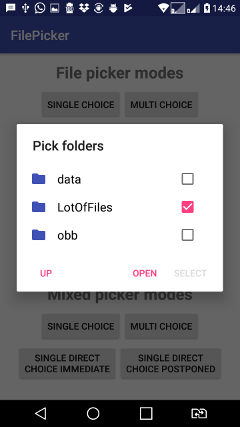
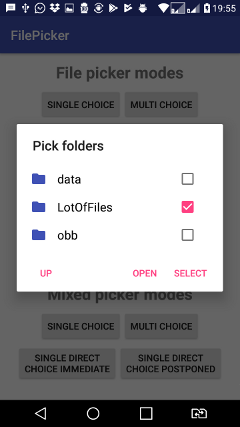
v.1.0.09

diff --git a/filepicker/src/main/java/com/github/isabsent/filepicker/SimpleFilePickerDialog.java b/filepicker/src/main/java/com/github/isabsent/filepicker/SimpleFilePickerDialog.java
@@ -7,7 +7,6 @@ import android.os.Bundle;
 import android.os.Environment;
 import android.support.annotation.LayoutRes;
 import android.support.annotation.NonNull;
-import android.support.annotation.Nullable;
 import android.support.v4.util.Pair;
 import android.support.v7.app.AlertDialog;
 import android.text.Spannable;
@@ -22,6 +21,9 @@ import com.github.isabsent.filepicker.entity.Item;
 import com.github.isabsent.filepicker.entity.ItemViewHolder;
 import com.github.isabsent.filepicker.entity.SimpleFilePickerItem;
 
+import org.apache.commons.io.FileUtils;
+import org.apache.commons.io.FilenameUtils;
+
 import java.io.File;
 import java.io.FileFilter;
 import java.util.ArrayList;
@@ -35,11 +37,13 @@ import eltos.simpledialogfragment.list.AdvancedAdapter;
 import eltos.simpledialogfragment.list.CustomListDialog;
 import eltos.simpledialogfragment.list.SimpleListDialog;
 
+import static com.github.isabsent.filepicker.SimpleFilePickerDialog.CompositeMode.FILE_OR_FOLDER_DIRECT_CHOICE_POSTPONED;
 import static com.github.isabsent.filepicker.SimpleFilePickerDialog.ItemMode.ITEM_FILE_FOLDER;
 import static com.github.isabsent.filepicker.SimpleFilePickerDialog.ItemMode.ITEM_FILE_ONLY;
 import static com.github.isabsent.filepicker.SimpleFilePickerDialog.ItemMode.ITEM_FOLDER_ONLY;
 import static eltos.simpledialogfragment.SimpleDialog.OnDialogResultListener.BUTTON_NEGATIVE;
 import static eltos.simpledialogfragment.SimpleDialog.OnDialogResultListener.BUTTON_NEUTRAL;
+import static eltos.simpledialogfragment.SimpleDialog.OnDialogResultListener.BUTTON_POSITIVE;
 
 public class SimpleFilePickerDialog extends CustomListDialog<SimpleFilePickerDialog> {
     private static final String
@@ -74,8 +78,17 @@ public class SimpleFilePickerDialog extends CustomListDialog<SimpleFilePickerDia
     private InteractionListenerString mListenerString;
     private InteractionListenerInt mListenerInt;
 
-    public static SimpleFilePickerDialog build(){
-        return new SimpleFilePickerDialog();
+    public static SimpleFilePickerDialog build(String folderPath, CompositeMode mode){
+        if (folderPath == null)
+            folderPath = Environment.getExternalStorageDirectory().getAbsolutePath();
+        if (mode == null)
+            mode = FILE_OR_FOLDER_DIRECT_CHOICE_POSTPONED;
+
+        return new SimpleFilePickerDialog().path(folderPath, mode)
+                .choiceMin(1)
+                .neut(R.string.button_up)
+                .neg(R.string.button_open)
+                .pos(R.string.button_select);
     }
 
     /**
@@ -156,12 +169,14 @@ public class SimpleFilePickerDialog extends CustomListDialog<SimpleFilePickerDia
                 upButton.setEnabled(false);
 
             openButton = alertDialog.getButton(Dialog.BUTTON_NEGATIVE);//Open
-            if (choiceMode == SimpleListDialog.SINGLE_CHOICE_DIRECT)
+//            if (choiceMode == SimpleListDialog.SINGLE_CHOICE_DIRECT)
                 openButton.setEnabled(false);
 
             selectButton = alertDialog.getButton(Dialog.BUTTON_POSITIVE);//Select
             if (ITEM_FILE_ONLY.equals(mode.getItemMode()))
                 selectButton.setEnabled(false);
+//            else
+//                selectButton.setEnabled(true);
         }
     }
 
@@ -189,6 +204,17 @@ public class SimpleFilePickerDialog extends CustomListDialog<SimpleFilePickerDia
                         showListItemDialog(selectedPath);
                         return result;
                     }
+                    break;
+                case BUTTON_POSITIVE: //Select
+                    if (isSelectionEmpty(result)) {//Choosing a parent folder
+                        String[] paths = getArguments().getStringArray(PATH_ARRAY);
+                        if (paths != null) {
+                            result.putString(SELECTED_SINGLE_LABEL, FilenameUtils.getName(folderPath));
+                            result.putString(SELECTED_SINGLE_PATH, folderPath);
+                        }
+                        return result;
+                    }
+                    break;
             }
 
             ArrayList<Integer> positions = result.getIntegerArrayList(SELECTED_POSITIONS);
@@ -198,7 +224,7 @@ public class SimpleFilePickerDialog extends CustomListDialog<SimpleFilePickerDia
                 return result;
             }
 
-            if (positions != null && getArguments() != null) {
+            if (positions != null && !positions.isEmpty() && getArguments() != null) {
                 String[] paths = getArguments().getStringArray(PATH_ARRAY);
                 if (paths != null) {
                     ArrayList<String> labels = new ArrayList<>(positions.size());
@@ -226,6 +252,10 @@ public class SimpleFilePickerDialog extends CustomListDialog<SimpleFilePickerDia
         return result;
     }
 
+    private boolean isSelectionEmpty(Bundle result) {
+        return !result.containsKey(SELECTED_SINGLE_POSITION) && (!result.containsKey(SELECTED_POSITIONS) || result.getIntegerArrayList(SELECTED_POSITIONS).isEmpty());
+    }
+
     private String getPathToOpen(Bundle extras){
         if (getArguments() != null) {
             String[] paths = getArguments().getStringArray(PATH_ARRAY);
@@ -248,7 +278,7 @@ public class SimpleFilePickerDialog extends CustomListDialog<SimpleFilePickerDia
                         }
                     }
                 }
-                if (!new File(paths[selectedPathPosition]).isFile())
+                if (selectedPathPosition >= 0 && !new File(paths[selectedPathPosition]).isFile())
                     return paths[selectedPathPosition];
             }
         }
@@ -270,6 +300,8 @@ public class SimpleFilePickerDialog extends CustomListDialog<SimpleFilePickerDia
                     mListenerString.showListItemDialog(title, path, mode, getTag());
                 else if (titleResId > 0 && mListenerInt != null )
                     mListenerInt.showListItemDialog(titleResId, path, mode, getTag());
+                else if (title == null && titleResId == 0)
+                    mListenerString.showListItemDialog(null, path, mode, getTag());
             }
         }
     }
@@ -389,14 +421,14 @@ public class SimpleFilePickerDialog extends CustomListDialog<SimpleFilePickerDia
                     }
 
                     boolean isDirectChoiceMode = choiceMode == SINGLE_CHOICE_DIRECT;
-                    boolean isPickEnabled = false;
+                    boolean isSelectEnabled = false;
                     if (!isDirectChoiceMode) {
                         boolean areItemsChecked = checkedItems.size() > 0;
                         if (ITEM_FILE_ONLY.equals(itemMode)) {
                             boolean areFoldersChecked = checkedFolders != null && checkedFolders.size() > 0;
-                            isPickEnabled = !areFoldersChecked && areItemsChecked;
+                            isSelectEnabled = !areFoldersChecked && areItemsChecked;
                         } else {
-                            isPickEnabled = areItemsChecked;
+                            isSelectEnabled = areItemsChecked;
                         }
                     }
 
@@ -404,17 +436,19 @@ public class SimpleFilePickerDialog extends CustomListDialog<SimpleFilePickerDia
                     if (isDirectChoiceMode) {
                         boolean isSingleItemChecked = checkedItems.size() == 1;
                         if (CompositeMode.isImmediate(mode)) {
-                            if (isSingleItemChecked)
+                            if (isSingleFolderChecked)
                                 mDialog.pressNegativeButton();//Open
+                            else if (isSingleItemChecked)
+                                mDialog.pressPositiveButton();//Select
                         } else {
                             if (ITEM_FILE_ONLY.equals(itemMode))
-                                isPickEnabled = isSingleItemChecked && !isSingleFolderChecked;
+                                isSelectEnabled = isSingleItemChecked && !isSingleFolderChecked;
                             else
-                                isPickEnabled = isSingleItemChecked;
-                            mDialog.setButtons(isSingleFolderChecked, isPickEnabled);
+                                isSelectEnabled = isSingleItemChecked;
+                            mDialog.setButtons(isSingleFolderChecked, isSelectEnabled);
                         }
                     } else {
-                        mDialog.setButtons(isSingleFolderChecked, isPickEnabled);
+                        mDialog.setButtons(isSingleFolderChecked, isSelectEnabled);
                     }
                 }
             });
@@ -429,13 +463,11 @@ public class SimpleFilePickerDialog extends CustomListDialog<SimpleFilePickerDia
 //        }
     }
 
-    private void setButtons(boolean isOpenEnabled, boolean isPickEnabled) {
-//        openButton.setVisibility(isOpenEnabled ? View.VISIBLE : View.GONE);
+    private void setButtons(boolean isOpenEnabled, boolean isSelectEnabled) {
         openButton.setEnabled(isOpenEnabled);
-        if (ITEM_FILE_FOLDER.equals(mode.getItemMode()) || ITEM_FILE_ONLY.equals(mode.getItemMode())) {
-//            selectButton.setVisibility(isPickEnabled ? View.VISIBLE : View.GONE);
-            selectButton.setEnabled(isPickEnabled);
-        }
+//        if (ITEM_FILE_FOLDER.equals(mode.getItemMode()) || ITEM_FILE_ONLY.equals(mode.getItemMode()))
+            selectButton.setEnabled(isSelectEnabled);
+
     }
 
     private static boolean isExternalStorageRoot(String path) {
@@ -460,6 +492,12 @@ public class SimpleFilePickerDialog extends CustomListDialog<SimpleFilePickerDia
         super.onDetach();
         mListenerInt = null;
         mListenerString = null;
+    }
+
+    @Override
+    protected void onDialogShown() {
+        super.onDialogShown();
+        setPositiveButtonEnabled(!ItemMode.ITEM_FILE_ONLY.equals(mode.getItemMode()));
     }
 
     public enum CompositeMode {

diff --git a/app/src/main/java/com/github/isabsent/filepickerdemo/MainActivity.java b/app/src/main/java/com/github/isabsent/filepickerdemo/MainActivity.java
@@ -27,7 +27,52 @@ import static com.github.isabsent.filepicker.SimpleFilePickerDialog.CompositeMod
 public class MainActivity extends AppCompatActivity implements
         SimpleFilePickerDialog.InteractionListenerString,
         SimpleFilePickerDialog.InteractionListenerInt {
-    private static final String  PICK_DIALOG = "PICK_DIALOG";
+
+    private static final String          //If you need to show a few different mode pickers in one activity,
+            PICK_DIALOG = "PICK_DIALOG";  //you can distinguish them by this tag in onResult callback.
+
+    @Override
+    public void showListItemDialog(int titleResId, String folderPath, SimpleFilePickerDialog.CompositeMode mode, String dialogTag){
+        SimpleFilePickerDialog.build(folderPath, mode)
+                .title(titleResId)
+//                .neut("hoch")    //Some customization if you need
+//                .neg("eröffnen")
+//                .pos("wählen")
+//                .choiceMin(1);
+//                .filterable(true, true)
+                .show(this, dialogTag);
+    }
+
+    @Override
+    public void showListItemDialog(String title, String folderPath, SimpleFilePickerDialog.CompositeMode mode, String dialogTag){
+        SimpleFilePickerDialog.build(folderPath, mode)
+                .title(title)
+//                .neut("hoch")    //Some customization if you need
+//                .neg("eröffnen")
+//                .pos("wählen")
+//                .choiceMin(1);
+//                .filterable(true, true)
+                .show(this, dialogTag);
+    }
+
+    @Override
+    public boolean onResult(@NonNull String dialogTag, int which, @NonNull Bundle extras) {
+        switch (dialogTag) {
+            case PICK_DIALOG:
+                if (extras.containsKey(SimpleFilePickerDialog.SELECTED_SINGLE_PATH)) {
+                    String selectedSinglePath = extras.getString(SimpleFilePickerDialog.SELECTED_SINGLE_PATH);
+                    Toast.makeText(this, "Path selected:\n" + selectedSinglePath, Toast.LENGTH_LONG).show();
+                } else if (extras.containsKey(SimpleFilePickerDialog.SELECTED_PATHS)){
+                    List<String> selectedPaths = extras.getStringArrayList(SimpleFilePickerDialog.SELECTED_PATHS);
+                    showSelectedPathsToast(selectedPaths);
+                }
+                break;
+//            case PICK_DIALOG_OTHER:
+//                //Do what you want here
+//                break;
+        }
+        return false;
+    }
 
     @Override
     protected void onCreate(Bundle savedInstanceState) {
@@ -36,7 +81,9 @@ public class MainActivity extends AppCompatActivity implements
 
         final String rootPath = Environment.getExternalStorageDirectory().getAbsolutePath();
 
-        //File picker modes
+//Button clicks with all available modes as an usage example:
+
+//File picker modes
         findViewById(R.id.file_single).setOnClickListener(new View.OnClickListener() {
             @Override
             public void onClick(View view) {
@@ -65,7 +112,7 @@ public class MainActivity extends AppCompatActivity implements
             }
         });
 
-        //Folder picker modes
+//Folder picker modes
         findViewById(R.id.folder_single).setOnClickListener(new View.OnClickListener() {
             @Override
             public void onClick(View view) {
@@ -94,7 +141,7 @@ public class MainActivity extends AppCompatActivity implements
             }
         });
 
-        //Mixed picker modes
+//Mixed picker modes
         findViewById(R.id.file_or_folder_single).setOnClickListener(new View.OnClickListener() {
             @Override
             public void onClick(View view) {
@@ -122,45 +169,6 @@ public class MainActivity extends AppCompatActivity implements
                 showListItemDialog(R.string.dialog_title_pick_file_or_folder, rootPath, FILE_OR_FOLDER_DIRECT_CHOICE_POSTPONED, PICK_DIALOG);
             }
         });
-    }
-
-    @Override
-    public void showListItemDialog(int titleResId, String folderPath, SimpleFilePickerDialog.CompositeMode mode, String dialogTag){
-        buildListItemDialog(folderPath, mode)
-                .title(titleResId)
-                .show(this, dialogTag);
-    }
-
-    @Override
-    public void showListItemDialog(String title, String folderPath, SimpleFilePickerDialog.CompositeMode mode, String dialogTag){
-        buildListItemDialog(folderPath, mode)
-                .title(title)
-                .show(this, dialogTag);
-    }
-
-    @Override
-    public boolean onResult(@NonNull String dialogTag, int which, @NonNull Bundle extras) {
-        switch (dialogTag) {
-            case PICK_DIALOG:
-                if (extras.containsKey(SimpleFilePickerDialog.SELECTED_SINGLE_PATH)) {
-                    String selectedSinglePath = extras.getString(SimpleFilePickerDialog.SELECTED_SINGLE_PATH);
-                    Toast.makeText(this, "Path selected:\n" + selectedSinglePath, Toast.LENGTH_LONG).show();
-                } else if (extras.containsKey(SimpleFilePickerDialog.SELECTED_PATHS)){
-                    List<String> selectedPaths = extras.getStringArrayList(SimpleFilePickerDialog.SELECTED_PATHS);
-                    showSelectedPathsToast(selectedPaths);
-                }
-                break;
-        }
-        return false;
-    }
-
-    private SimpleFilePickerDialog buildListItemDialog(String folderPath, SimpleFilePickerDialog.CompositeMode mode){
-        return SimpleFilePickerDialog.build()
-                .path(folderPath, mode)
-                .choiceMin(1)
-                .neg(R.string.button_open)
-                .neut(R.string.button_up)
-                .pos(R.string.button_pick);
     }
 
     private void showSelectedPathsToast(List<String> selectedPaths){

diff --git a/README.md b/README.md
@@ -4,7 +4,7 @@ File and folder picker dialog
 ## Gradle:
 
     dependencies {
-      compile 'com.github.isabsent:filepicker:1.0.07'
+      compile 'com.github.isabsent:filepicker:1.0.09'
     }
 
 ## Maven:
@@ -12,7 +12,7 @@ File and folder picker dialog
     <dependency>
       <groupId>com.github.isabsent</groupId>
       <artifactId>filepicker</artifactId>
-      <version>1.0.07</version>
+      <version>1.0.09</version>
       <type>pom</type>
     </dependency>
 
